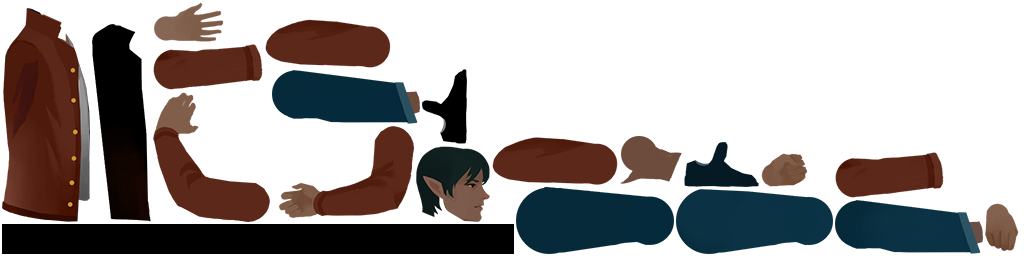
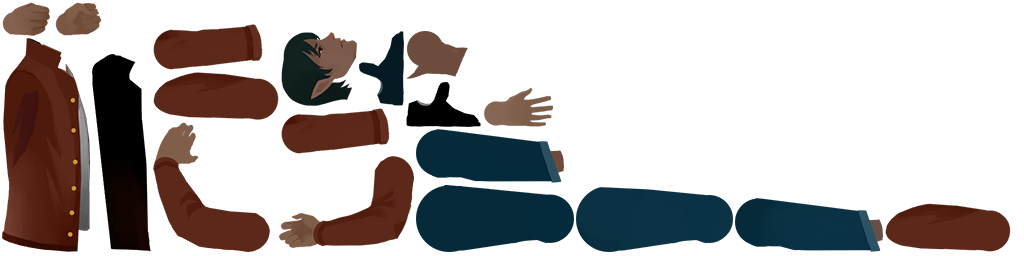
updated animation and fixed transitions between them

diff --git a/core/src/com/me/component/PhysicsComponent.java b/core/src/com/me/component/PhysicsComponent.java
@@ -18,15 +18,17 @@ import com.badlogic.gdx.physics.box2d.FixtureDef;
 import com.badlogic.gdx.physics.box2d.MassData;
 import com.badlogic.gdx.physics.box2d.PolygonShape;
 import com.badlogic.gdx.physics.box2d.World;
+import com.badlogic.gdx.utils.ObjectMap;
+import com.badlogic.gdx.utils.ObjectMap.Values;
 import com.me.physics.RBUserData;
 import com.me.utils.Converters;
 
 public class PhysicsComponent extends BaseComponent {
 
-	private Map<String, Body> m_body = new HashMap<String, Body>();
-	private Map<Body, RBUserData> m_userData = new HashMap<Body, RBUserData>();
+	private ObjectMap<String, Body> m_body = new ObjectMap<String, Body>();
+	private ObjectMap<Body, RBUserData> m_userData = new ObjectMap<Body, RBUserData>();
 	private Vector2 m_worldPosition;
-	private Map<Body, Vector2> m_previousPositions;
+	private ObjectMap<Body, Vector2> m_previousPositions;
 	private Vector2 m_startPosition;
 	private boolean m_isActive;
 	private String m_name;
@@ -43,7 +45,7 @@ public class PhysicsComponent extends BaseComponent {
 		m_body.get(m_name).setBullet(b.isBullet());
 		m_body.get(m_name).setFixedRotation(b.isFixedRotation());
 		m_body.get(m_name).setSleepingAllowed(b.isSleepingAllowed());
-		m_previousPositions = new HashMap<Body, Vector2>();
+		m_previousPositions = new ObjectMap<Body, Vector2>();
 		m_previousPositions.put(m_body.get(name), m_body.get(name).getPosition());
 		m_startPosition = new Vector2(m_body.get(name).getPosition());
 	}
@@ -150,15 +152,16 @@ public class PhysicsComponent extends BaseComponent {
 	private HashMap<String, Short> filterData = new HashMap<String, Short>();
 	public void disableAllFilters(){
 		
-		Iterator<Entry<String, Body>> it = m_body.entrySet().iterator();
+		Iterator<ObjectMap.Entry<String, Body>> it = m_body.entries().iterator();
+		
 	    while (it.hasNext()) {
 	        @SuppressWarnings("rawtypes")
-			Map.Entry pairs = (Map.Entry)it.next();
-	        Body b = (Body) pairs.getValue();
+			ObjectMap.Entry<String, Body> pairs = (ObjectMap.Entry<String, Body>)it.next();
+	        Body b = (Body) pairs.value;
 	        short bits;
 	        Filter filter = b.getFixtureList().get(0).getFilterData();
 	        bits = filter.categoryBits;
-	        filterData.put((String) pairs.getKey(), new Short(bits));
+	        filterData.put((String) pairs.key, new Short(bits));
 	        filter.categoryBits = 1;
 			b.getFixtureList().get(0).setFilterData(filter);
 	    }
@@ -286,7 +289,7 @@ public class PhysicsComponent extends BaseComponent {
 		return m_userData.get(body);
 	}
 
-	public Collection<Body> getBodyMap(){
+	public Values<Body> getBodyMap(){
 		return m_body.values();
 	}
 

diff --git a/core/src/com/me/loaders/EntityLoader.java b/core/src/com/me/loaders/EntityLoader.java
@@ -363,16 +363,19 @@ public class EntityLoader {
 				pComp.setIsPlayer(true);
 				stateData = anim.setUp(image);
 				anim.setAnimationState(AnimState.IDLE);
-				stateData.setMix("idle", "jogging", 0.4f);
-				//stateData.setMix("runjumping", "running", 0.6f);
+				stateData.setMix("idle1", "jogging", 0.4f);
+				stateData.setMix("jogging", "idle1", 0.4f);
+				stateData.setMix("running", "idle1", 0.4f);
+				stateData.setMix("runJumping", "running", 0.6f);
 				stateData.setMix("jogging", "running", 0.4f);
 				//stateData.setMix("falling", "idle", 0.1f);
 				//stateData.setMix("runjumping", "upJump", 0.1f);
 				stateData.setMix("upJump", "running", 0.2f);
-				stateData.setMix("idle", "climbUp", 0.6f);
+				stateData.setMix("idle1", "climbUp", 0.6f);
 				stateData.setMix("jogging", "pushing", 0.5f);
-				stateData.setMix("idle", "pushing", 0.4f);
+				stateData.setMix("idle1", "pushing", 0.4f);
 				stateData.setMix("running", "pushing", 0.3f);
+				stateData.setMix("runJumping", "falling", 0.4f);
 				//dstateData.setMix("pushing", "idle", 0.6f);
 				//stateData.setMix("ladderHang", "running", 0.1f);
 				pComp.setPosition(config.m_playerPosition);
@@ -389,10 +392,15 @@ public class EntityLoader {
 				pComp.setIsPlayer(true);
 				stateData = anim.setUp(image);
 				anim.setAnimationState(AnimState.IDLE);
-				stateData.setMix("idle", "walking", 0.3f);
-				stateData.setMix("walking", "running", 0.6f);
+				stateData.setMix("idle1", "walking", 0.4f);
+				//stateData.setMix("running", "idle1", 0.4f);
+				//stateData.setMix("walking", "idle1", 0.4f);
+				stateData.setMix("walking", "running", 0.4f);
 				//stateData.setMix("jumping", "running", 0.2f);
 				//stateData.setMix("walking", "jumping", 0.2f);
+				//stateData.setMix("falling", "idle1", 0.2f);
+				stateData.setMix("running", "falling", 0.6f);
+				stateData.setMix("idle1", "falling", 0.6f);
 				//stateData.setMix("lieDown", "lyingDown", 0.2f);
 				//stateData.setMix("crawling", "lyingDown", 0.2f);
 				entity.addComponent(p);

diff --git a/core/src/com/me/systems/PlayerOneSystem.java b/core/src/com/me/systems/PlayerOneSystem.java
@@ -135,15 +135,10 @@ public class PlayerOneSystem extends EntityProcessingSystem implements InputProc
 			}
 			if(m_hangComps.has(e)){
 
-				if(m.m_up && h.m_isHanging)
-				{
-					//JointComponent j = e.getComponent(JointComponent.class);
-					//if(j.getPrismJoint() != null){
-						//j.climb();
-						animation.setAnimationState(AnimState.CLIMBING);
-						h.m_climbingUp = true;
-						m.m_lockControls = true;
-					//}
+				if(m.m_up && h.m_isHanging){
+					animation.setAnimationState(AnimState.CLIMBING);
+					h.m_climbingUp = true;
+					m.m_lockControls = true;
 				}
 				if(h.m_isHanging && !h.m_climbingUp){
 					animation.setAnimationState(AnimState.HANGING);
@@ -232,7 +227,9 @@ public class PlayerOneSystem extends EntityProcessingSystem implements InputProc
 		LadderClimbComponent ladderComp = m_ladderComps.get(e);
 		HangComponent h = m_hangComps.get(e);
 		PlayerComponent player = m_playerComps.get(e);
-
+		if(h.m_hangingLeft || h.m_hangingRight){
+			vel.m_velocity = 0;
+		}
 		if(vel.m_velocity > 0)
 			vel.m_velocity=-VELOCITYINR;
 		if(touch.m_groundTouch){

diff --git a/core/src/com/me/systems/PlayerTwoSystem.java b/core/src/com/me/systems/PlayerTwoSystem.java
@@ -6,6 +6,7 @@ import com.artemis.Entity;
 import com.artemis.annotations.Mapper;
 import com.artemis.systems.EntityProcessingSystem;
 import com.badlogic.gdx.InputProcessor;
+import com.esotericsoftware.spine.AnimationState;
 import com.esotericsoftware.spine.Slot;
 import com.esotericsoftware.spine.attachments.RegionAttachment;
 import com.me.component.AnimationComponent;
@@ -171,6 +172,10 @@ public class PlayerTwoSystem extends EntityProcessingSystem implements InputProc
 
 		if(finish){
 			animation.setAnimationState(m_playerConfig.m_finishAnimation);
+		}
+		
+		if(ps.isFalling() && ps.movingForward()){
+			animation.setAnimationState(AnimState.FALLING);
 		}
 
 		if(isDead(ps)){

diff --git a/core/src/com/me/component/AnimationComponent.java b/core/src/com/me/component/AnimationComponent.java
@@ -1,5 +1,6 @@
 package com.me.component;
 
+import com.badlogic.gdx.Application;
 import com.badlogic.gdx.Gdx;
 import com.badlogic.gdx.graphics.g2d.SpriteBatch;
 import com.badlogic.gdx.graphics.g2d.TextureAtlas;
@@ -284,7 +285,7 @@ public class AnimationComponent extends BaseComponent {
 				playAnimation("jogjumping", false);
 				break;
 			case IDLE:
-				playAnimation("idle", true);
+				playAnimation("idle1", true);
 				break;
 			case UPJUMP:
 				playAnimation("upJump", false);
